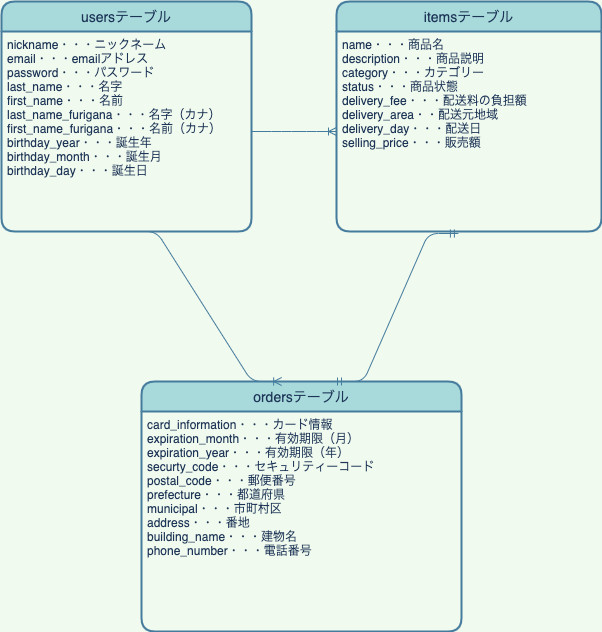
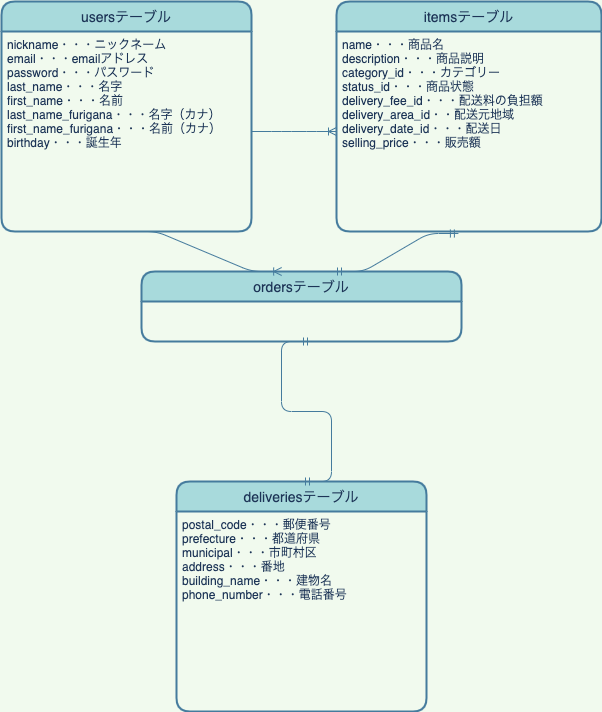
データベース設計コードレビュー後修正

Changed region(s): [[0.0, 0.0, 1.0, 0.5411], [0.2093, 0.5712, 0.7774, 1.0], [0.4186, 0.0, 1.0, 0.2405]]

diff --git a/README.md b/README.md
@@ -2,18 +2,17 @@
 
 ## users テーブル
 
-| Column               | Type    | Options     |
-| -------------------- | ------- | ----------- |
-| nickname             | string  | null: false |
-| email                | string  | null: false |
-| password             | string  | null: false | 
-| last_name            | string  | null: false |
-| First_name           | string  | null: false |
-| last_name_furigana   | string  | null: false | 
-| first_name_furigana  | string  | null: false |
-| birthday_year        | integer | null: false |
-| birthday_month       | integer | null: false |
-| birthday_day         | integer | null: false |
+| Column               | Type    | Options                   |
+| -------------------- | ------- | ------------------------- |
+| nickname             | string  | null: false               |
+| email                | string  | null: false, unique: true |
+| encrypted_password   | string  | null: false               | 
+| last_name            | string  | null: false               |
+| first_name           | string  | null: false               |
+| last_name_furigana   | string  | null: false               |
+| first_name_furigana  | string  | null: false               |
+| birthday             | date    | null: false               |
+
 
 ### Association
 
@@ -22,17 +21,17 @@
 
 ## items テーブル
 
-| Column          | Type          | Options                        |
-| --------------- | --------------| -------------------------------|
-| name            | string        | null: false                    |
-| description     | text          | null: false                    |#説明
-| category        | string        | null: false                    |
-| status          | string        | null: false                    |#状態
-| delivery_fee    | string        | null: false                    |#配送料の負担額
-| delivery_area   | string        | null: false                    |#配送元地域
-| delivery_date   | string        | null: false                    |#配送日数
-| selling_price   | integer       | null: false                    |#販売価格
-| user            | references    | null: false, foreign_key: true |
+| Column           | Type          | Options                        |
+| ---------------  | --------------| -------------------------------|
+| name             | string        | null: false                    |
+| description      | text          | null: false                    |#説明
+| category_id      | integer       | null: false                    |
+| status_id        | integer       | null: false                    |#状態
+| delivery_fee_id  | integer       | null: false                    |#配送料の負担額
+| delivery_area_id | integer       | null: false                    |#配送元地域
+| delivery_date_id | integer       | null: false                    |#配送日数
+| selling_price    | integer       | null: false                    |#販売価格
+| user             | references    | null: false, foreign_key: true |
 
 ### Association
 
@@ -43,16 +42,6 @@
 
 | Column             | Type       | Options                        |
 | ------------------ | ---------- | ------------------------------ | 
-| card_information   | integer    | null: false                    |#カード情報
-| expiration_month   | integer    | null: false                    |#有効期限月
-| expiration_year    | integer    | null:false                     |#有効期限年
-| security_code      | integer    | null: false                    |#セキュリティーコード
-| postal_code        | string     | null: false                    |#郵便番号
-| prefecture         | string     | null: false                    |#都道府県
-| municipal_district | string     | null: false                    |#市町村区
-| address            | string     | null: false                    |#番地
-| building_name      | string     |                                |
-| phone_number       | integer    | null: false                    |
 | user               | references | null: false, foreign_key: true |
 | item               | references | null: false, foreign_key: true |
 
@@ -60,3 +49,21 @@
 
 - belongs_to :user
 - belongs_to :item
+- has_one :delivery
+
+## deliveries テーブル
+
+| Column             | Type       | Options                        |
+| ------------------ | ---------- | ------------------------------ | 
+| postal_code        | string     | null: false                    |#郵便番号
+| prefecture_id      | integer    | null: false                    |#都道府県
+| municipal_district | string     | null: false                    |#市町村区
+| address            | string     | null: false                    |#番地
+| building_name      | string     |                                |
+| phone_number       | integer    | null: false                    |
+| order              | references | null: false, foreign_key: true |
+
+
+### Association
+
+- belongs_to :order
